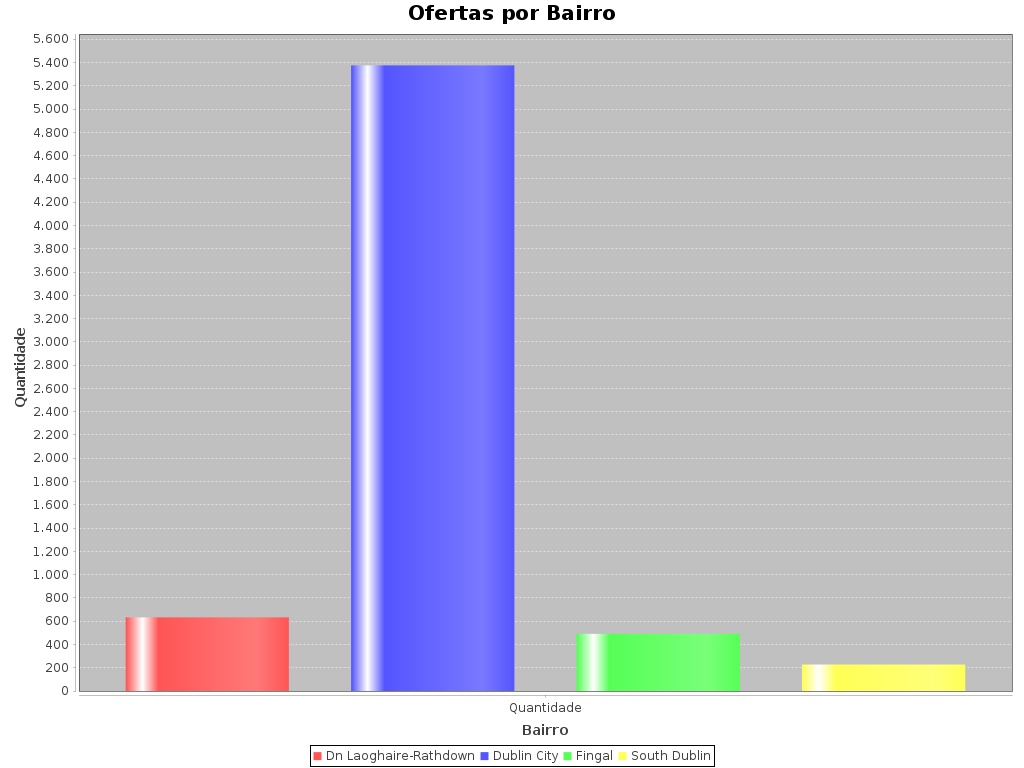
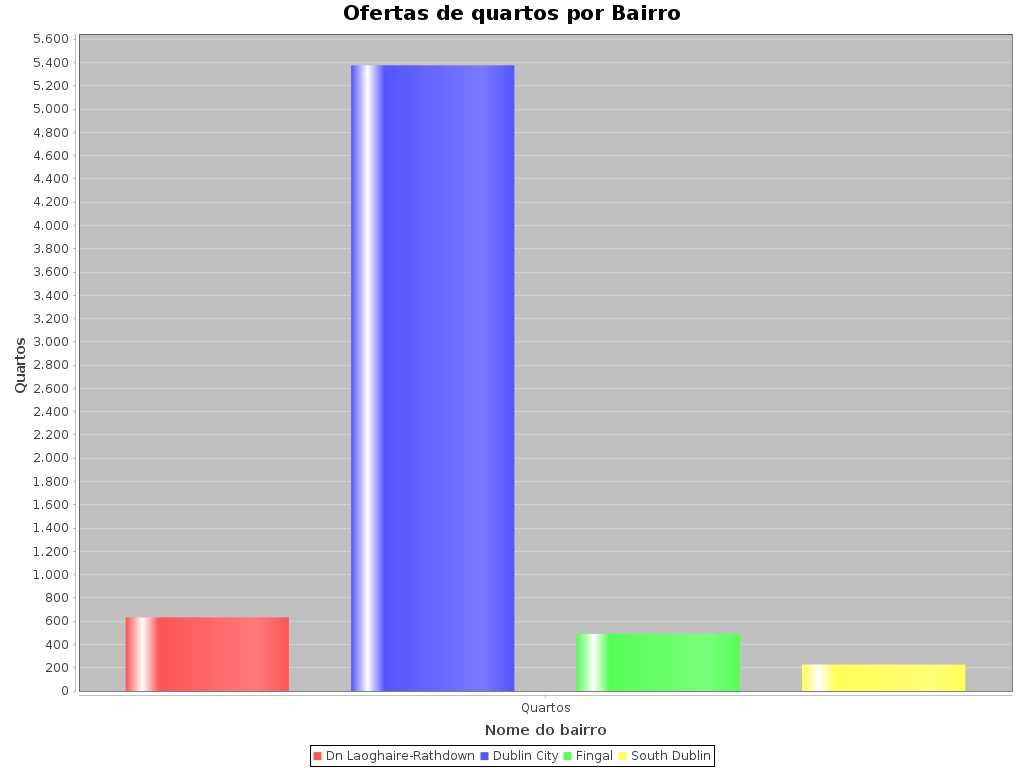
ajustes de aparência

Changed region(s): [[0.3438, 0.0, 0.6562, 0.0312], [0.4688, 0.9062, 0.5938, 0.9688], [0.0, 0.4375, 0.0312, 0.5312]]

diff --git a/src/BarChart.java b/src/BarChart.java
@@ -1,5 +1,6 @@
 import java.io.File;
 import java.io.IOException;
+import java.text.DecimalFormat;
 import java.util.ArrayList;
 
 import javax.swing.JPanel;
@@ -8,15 +9,33 @@ import org.jfree.chart.ChartFactory;
 import org.jfree.chart.ChartPanel; 
 import org.jfree.chart.ChartUtilities;
 import org.jfree.chart.JFreeChart; 
+import org.jfree.chart.axis.CategoryAxis;
+import org.jfree.chart.axis.CategoryLabelPositions;
+import org.jfree.chart.axis.NumberAxis;
+import org.jfree.chart.labels.CategoryItemLabelGenerator;
+import org.jfree.chart.plot.CategoryPlot;
 import org.jfree.chart.plot.PlotOrientation;
+import org.jfree.chart.plot.XYPlot;
+import org.jfree.chart.renderer.category.BarRenderer;
+import org.jfree.chart.renderer.category.CategoryItemRenderer;
+import org.jfree.chart.renderer.category.DefaultCategoryItemRenderer;
+import org.jfree.chart.renderer.xy.StandardXYBarPainter;
+import org.jfree.chart.renderer.xy.XYBarRenderer;
+import org.jfree.chart.title.LegendTitle;
 import org.jfree.data.category.CategoryDataset; 
 import org.jfree.data.category.DefaultCategoryDataset; 
 import org.jfree.ui.ApplicationFrame; 
+import org.jfree.ui.RectangleEdge;
+
+import com.orsoncharts.label.StandardCategoryItemLabelGenerator;
 
 public class BarChart extends ApplicationFrame {
+	
+	private static int min = 0;
+	private static int max = 0;
    
    public BarChart(Arquivo f) throws IOException {
-	      super( "Ofertas por Bairro" ); 
+	      super( "Ofertas de quartos por Bairro" ); 
 	      setContentPane(createDemoPanel(f));
 	   }
   
@@ -26,17 +45,18 @@ public class BarChart extends ApplicationFrame {
 	   }
    
    private static JFreeChart createChart(CategoryDataset dataset){
+	   
       JFreeChart barChart = ChartFactory.createBarChart(
-    	         "Ofertas por Bairro",           
-    	         "Bairro",            
-    	         "Quantidade",            
+    	         "Ofertas de quartos por Bairro",           
+    	         "Nome do bairro",            
+    	         "Quartos",            
     	         dataset,          
     	         PlotOrientation.VERTICAL,           
-    	         true, true, false);
-    	      
+    	         true, true, false);  
     	              
       ChartPanel chartPanel = new ChartPanel( barChart );        
       chartPanel.setPreferredSize(new java.awt.Dimension( 1024 , 768 ) );
+      
 	return barChart;  
    }
    
@@ -47,7 +67,7 @@ public class BarChart extends ApplicationFrame {
       final DefaultCategoryDataset dataset = new DefaultCategoryDataset();  
       
       for(int i = 0;i<valoresBairros.length;i++){
-    	  dataset.addValue( valoresBairros[i] , nomesBairros.get(i) , "Quantidade" );
+    	  dataset.addValue( valoresBairros[i] , nomesBairros.get(i) , "Quartos");
       }
 
       return dataset; 

diff --git a/src/PieChart.java b/src/PieChart.java
@@ -19,7 +19,7 @@ import org.jfree.ui.RefineryUtilities;
 public class PieChart extends ApplicationFrame {
    
    public PieChart(Arquivo f) throws IOException {
-      super( "Ofertas por Bairro" ); 
+      super( "Ofertas de quartos por Bairro" ); 
       setContentPane(createDemoPanel(f));
    }
    
@@ -37,14 +37,14 @@ public class PieChart extends ApplicationFrame {
    
    private static JFreeChart createChart( PieDataset dataset ) {
       JFreeChart chart = ChartFactory.createPieChart(      
-         "Ofertas por Bairro",   // chart title 
+         "Ofertas de quartos por bairro",   // chart title 
          dataset,          // data    
          true,             // include legend   
          true, 
          false);
       
       PiePlot plot = (PiePlot) chart.getPlot();
-      plot.setLabelGenerator(new StandardPieSectionLabelGenerator("{0} - {2}"));  
+      plot.setLabelGenerator(new StandardPieSectionLabelGenerator("{0} - {1} - {2}"));  
 
       return chart;
    }

diff --git a/src/PieChart3D.java b/src/PieChart3D.java
@@ -22,7 +22,7 @@ public class PieChart3D {
       }  
 
       JFreeChart chart = ChartFactory.createPieChart3D( 
-         "Ofertas por Bairro" ,  // chart title                   
+         "Ofertas de quartos por bairro" ,  // chart title                   
          dataset ,         // data 
          true ,            // include legend                   
          true, 
@@ -32,7 +32,7 @@ public class PieChart3D {
       plot.setStartAngle( 180 );             
       plot.setForegroundAlpha( 0.60f );             
       plot.setInteriorGap( 0.02 );     
-      plot.setLabelGenerator(new StandardPieSectionLabelGenerator("{0} - {2}"));  
+      plot.setLabelGenerator(new StandardPieSectionLabelGenerator("{0} - {1} - {2}"));  
       
       File pieChart3D = new File(path + "/PieChart3D.jpeg");                           
       ChartUtilities.saveChartAsJPEG( pieChart3D , chart , 1024 , 768 );

diff --git a/src/BarChart3D.java b/src/BarChart3D.java
@@ -16,13 +16,13 @@ public class BarChart3D {
       final DefaultCategoryDataset dataset = new DefaultCategoryDataset( );  
 
       for(int i = 0;i<valoresBairros.length;i++){
-    	  dataset.addValue( valoresBairros[i] , nomesBairros.get(i) , "Quantidade" );
+    	  dataset.addValue( valoresBairros[i] , nomesBairros.get(i) , "Quartos" );
       }             
       
       JFreeChart barChart = ChartFactory.createBarChart3D(
- 	         "Ofertas por Bairro",           
- 	         "Bairro",            
- 	         "Quantidade",            
+ 	         "Ofertas de quartos por Bairro",           
+ 	         "Nome do bairro",            
+ 	         "Quartos",             
  	         dataset,          
  	         PlotOrientation.VERTICAL,           
  	         true, true, false);
